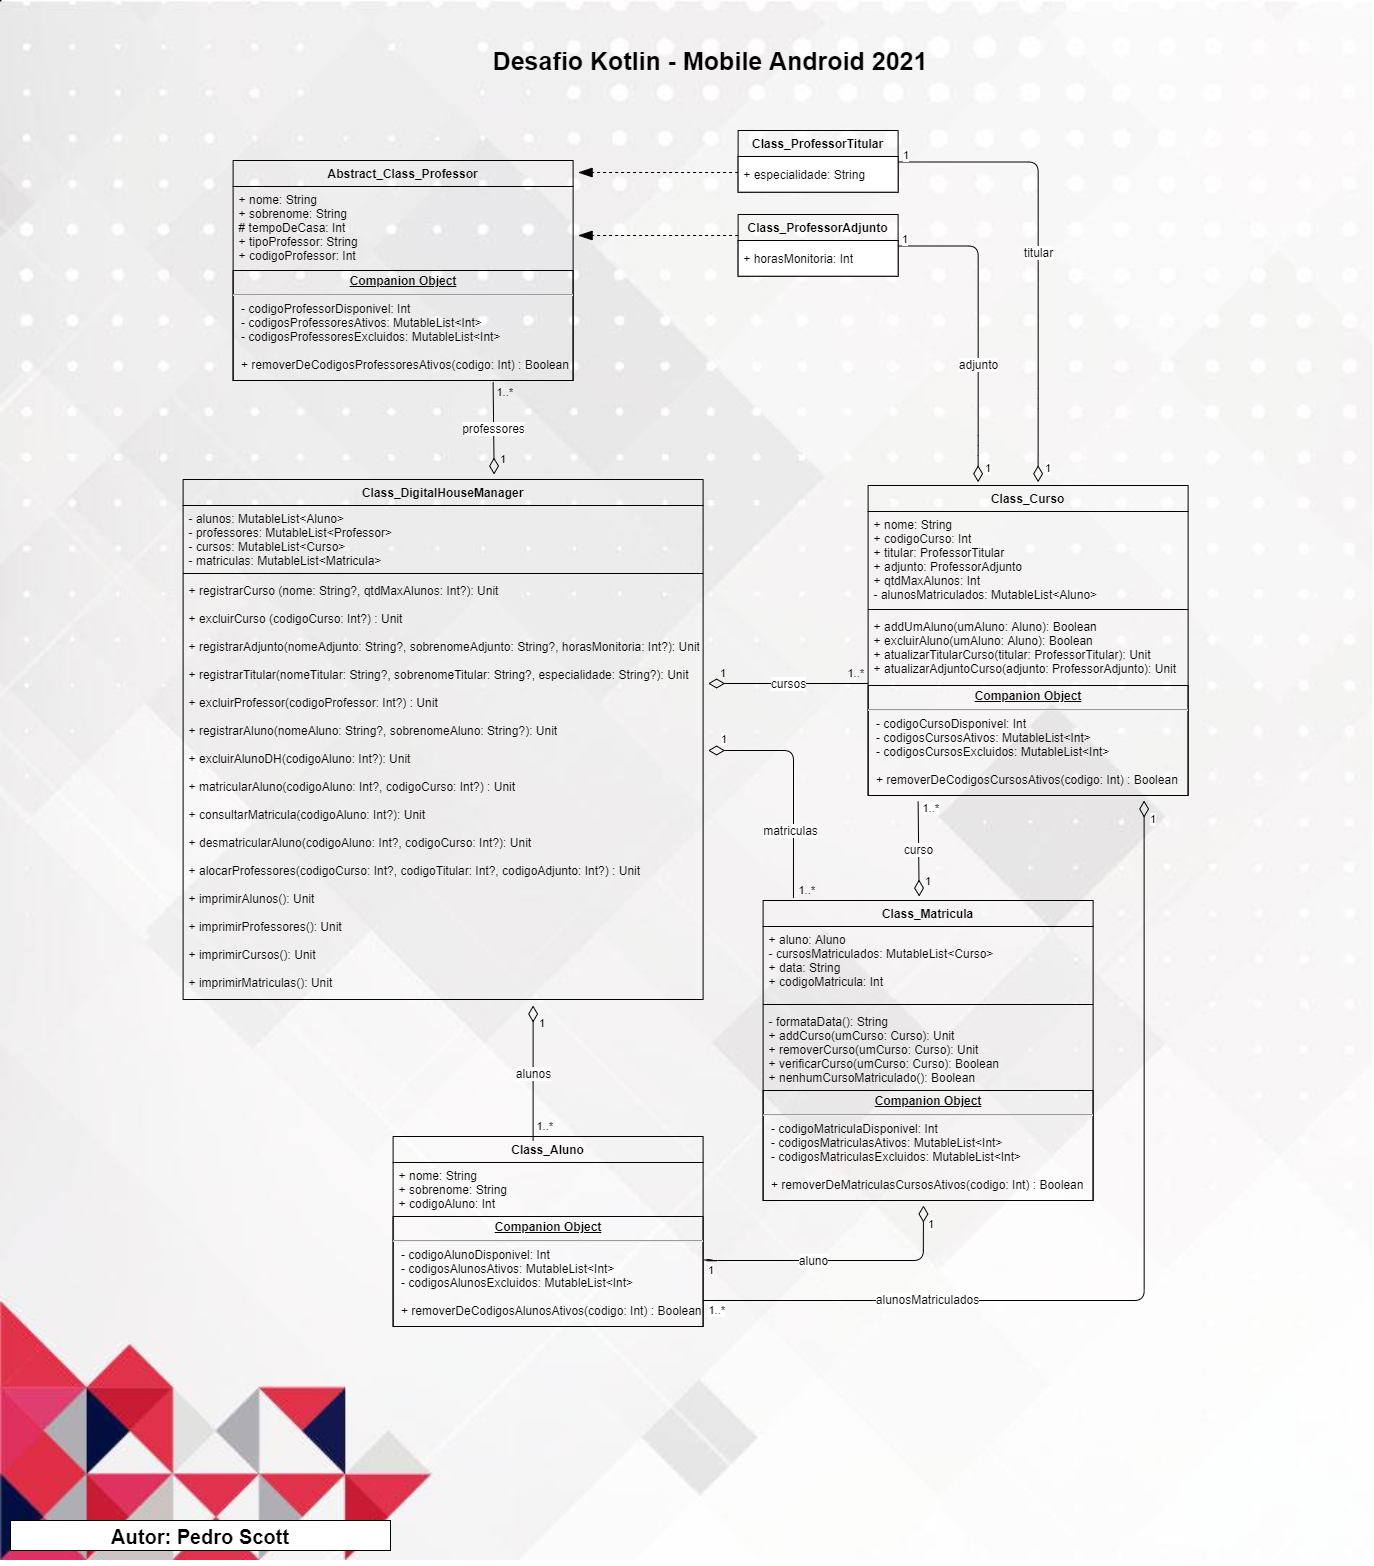
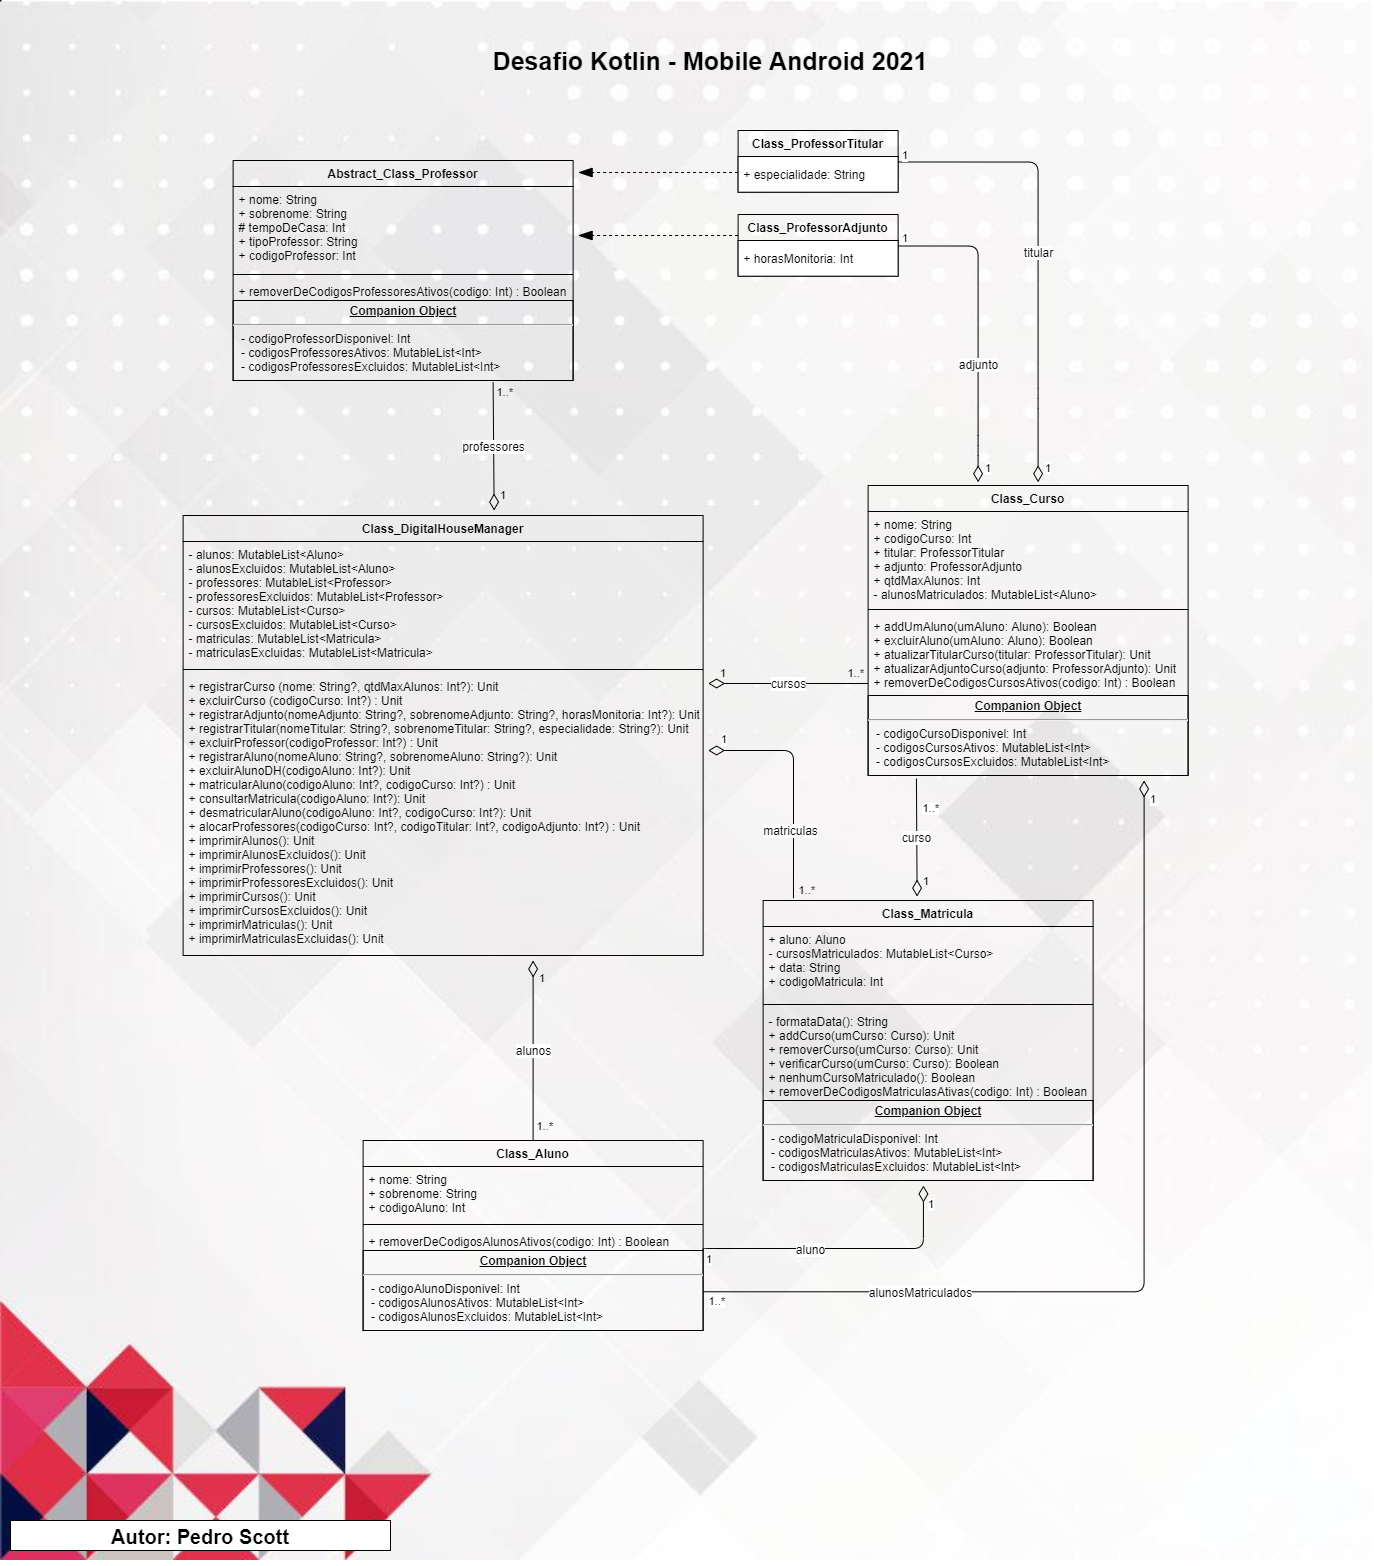
Adding a New Feature

diff --git a/Desafio-Kotlin-DH-2021/src/br/com/digitalhouse/desafioKotlin/modelo/DigitalHouseManager.kt b/Desafio-Kotlin-DH-2021/src/br/com/digitalhouse/desafioKotlin/modelo/DigitalHouseManager.kt
@@ -4,9 +4,13 @@ import br.com.digitalhouse.desafioKotlin.funcao.divisor
 
 class DigitalHouseManager {
     private val alunos = mutableListOf<Aluno>()
+    private val alunosExcluidos = mutableListOf<Aluno>()
     private val professores = mutableListOf<Professor>()
+    private val professoresExcluidos = mutableListOf<Professor>()
     private val cursos = mutableListOf<Curso>()
+    private val cursosExcluidos = mutableListOf<Curso>()
     private val matriculas = mutableListOf<Matricula>()
+    private val matriculasExcluidas = mutableListOf<Matricula>()
 
     //Registra um curso na lista cursos da classe atual com base nos dados informados
     fun registrarCurso(
@@ -48,8 +52,10 @@ class DigitalHouseManager {
             return
         }
 
-        Curso.removerDeCodigosCursosAtivos(codigo = codigoCurso)
+        curso.removerDeCodigosCursosAtivos(codigo = codigoCurso)
         cursos.remove(element = curso)
+        if (alunosExcluidos.size == 10) alunosExcluidos.removeAt(index = 0)
+        cursosExcluidos.add(element = curso)
         println(curso)
         println("Excluído com sucesso :)")
     }
@@ -132,8 +138,10 @@ class DigitalHouseManager {
             return
         }
 
-        Professor.removerDeCodigosProfessoresAtivos(codigo = codigoProfessor)
+        professor.removerDeCodigosProfessoresAtivos(codigo = codigoProfessor)
         professores.remove(element = professor)
+        if (professoresExcluidos.size == 10) professoresExcluidos.removeAt(index = 0)
+        professoresExcluidos.add(element = professor)
         when (professor) {
             is ProfessorTitular -> println(professor)
             is ProfessorAdjunto -> println(professor)
@@ -185,8 +193,10 @@ class DigitalHouseManager {
 
         //Verifica se o aluno está matriculado e caso não esteja exclui ele do sistema
         matriculas.find { it.aluno == aluno } ?: kotlin.run {
-            Aluno.removerDeCodigosAlunosAtivos(codigo = codigoAluno)
-            alunos.remove(aluno)
+            aluno.removerDeCodigosAlunosAtivos(codigo = codigoAluno)
+            alunos.remove(element = aluno)
+            if (alunosExcluidos.size == 10) alunosExcluidos.removeAt(index = 0)
+            alunosExcluidos.add(element = aluno)
             println("Excluído com sucesso :)")
             return
         }
@@ -324,8 +334,10 @@ class DigitalHouseManager {
 
         //Verifica se o aluno possui mais cursos e exclui ele da DHManager, caso não tenha.
         if (matricula.nenhumCursoMatriculado) {
-            Matricula.removerDeCodigosMatriculasAtivas(codigo = matricula.codigoMatricula)
+            matricula.removerDeCodigosMatriculasAtivas(codigo = matricula.codigoMatricula)
             matriculas.remove(matricula)
+            if (matriculasExcluidas.size == 10) matriculasExcluidas.removeAt(index = 0)
+            matriculas.add(element = matricula)
             println("Matrícula excluída com sucesso :)")
         }
     }
@@ -404,6 +416,20 @@ class DigitalHouseManager {
         }
     }
 
+    //Imprime a lista alunosExcluidos da classe atual, que contém as últimas 10 exclusões.
+    val imprimirAlunosExcluidos: Unit get() {
+        if (alunosExcluidos.isEmpty()) {
+            println("Nenhum aluno foi excluido!")
+            divisor
+            return
+        }
+
+        alunosExcluidos.forEach {
+            println("$it")
+            if (it != alunosExcluidos.last()) println()
+        }
+    }
+
     //Imprime a lista professores da classe atual.
     val imprimirProfessores: Unit get() {
         if (professores.isEmpty()) {
@@ -415,6 +441,20 @@ class DigitalHouseManager {
         professores.forEach {
             println("$it")
             if (it != professores.last()) println()
+        }
+    }
+
+    //Imprime a lista professoresExcluidos da classe atual, que contém as últimas 10 exclusões.
+    val imprimirProfessoresExcluidos: Unit get() {
+        if (professoresExcluidos.isEmpty()) {
+            println("Nenhum professor foi excluido!")
+            divisor
+            return
+        }
+
+        professoresExcluidos.forEach {
+            println("$it")
+            if (it != professoresExcluidos.last()) println()
         }
     }
 
@@ -432,6 +472,20 @@ class DigitalHouseManager {
         }
     }
 
+    //Imprime a lista cursosExcluidos da classe atual, que contém as últimas 10 exclusões.
+    val imprimirCursosExcluidos: Unit get() {
+        if (cursosExcluidos.isEmpty()) {
+            println("Nenhum curso foi excluido!")
+            divisor
+            return
+        }
+
+        cursosExcluidos.forEach {
+            println("$it")
+            if (it != cursosExcluidos.last()) println()
+        }
+    }
+
     //Imprime a lista matriculas da classe atual.
     val imprimirMatriculas: Unit get() {
         if (matriculas.isEmpty()) {
@@ -443,6 +497,20 @@ class DigitalHouseManager {
         matriculas.forEach {
             println("$it")
             if (it != matriculas.last()) println()
+        }
+    }
+
+    //Imprime a lista matriculasExcluidas da classe atual, que contém as últimas 10 exclusões.
+    val imprimirMatriculasExcluidas: Unit get() {
+        if (matriculasExcluidas.isEmpty()) {
+            println("Nenhuma matrícula foi excluida!")
+            divisor
+            return
+        }
+
+        matriculasExcluidas.forEach {
+            println("$it")
+            if (it != matriculasExcluidas.last()) println()
         }
     }
 }

diff --git a/Desafio-Kotlin-DH-2021/src/br/com/digitalhouse/desafioKotlin/main.kt b/Desafio-Kotlin-DH-2021/src/br/com/digitalhouse/desafioKotlin/main.kt
@@ -29,7 +29,7 @@ fun main() {
                     divisor
                     espacos
 
-                    if (opcao2 == null || opcao2 < 1 || opcao2 > 4) {
+                    if (opcao2 == null || opcao2 < 1 || opcao2 > 5) {
                         println("Opção Inválida :(")
                         divisor
                         espacos
@@ -70,9 +70,16 @@ fun main() {
                             dh.imprimirAlunos
                             espacos
                         }
+
+                        4 -> {
+                            println("*** Listar os últimos 10 Alunos excluidos do sistema ***\n")
+
+                            dh.imprimirAlunosExcluidos
+                            espacos
+                        }
                     }
 
-                } while (opcao2 != 4)
+                } while (opcao2 != 5)
             }
 
             2 -> {
@@ -81,7 +88,7 @@ fun main() {
                     opcao2 = readLine()?.toIntOrNull()
                     espacos
 
-                    if (opcao2 == null || opcao2 < 1 || opcao2 > 5) {
+                    if (opcao2 == null || opcao2 < 1 || opcao2 > 6) {
                         println("Opção Inválida :(")
                         divisor
                         espacos
@@ -147,9 +154,16 @@ fun main() {
                             dh.imprimirProfessores
                             espacos
                         }
+
+                        5 -> {
+                            println("*** Listar os últimos 10 Professores excluídos do sistema ***\n")
+
+                            dh.imprimirProfessoresExcluidos
+                            espacos
+                        }
                     }
 
-                } while (opcao2 != 5)
+                } while (opcao2 != 6)
             }
 
             3 -> {
@@ -158,7 +172,7 @@ fun main() {
                     opcao2 = readLine()?.toIntOrNull()
                     espacos
 
-                    if (opcao2 == null || opcao2 < 1 || opcao2 > 5) {
+                    if (opcao2 == null || opcao2 < 1 || opcao2 > 6) {
                         println("Opção Inválida :(")
                         divisor
                         espacos
@@ -220,9 +234,16 @@ fun main() {
                             dh.imprimirCursos
                             espacos
                         }
+
+                        5 -> {
+                            println("*** Listar os últimos 10 Cursos excluídos do sistema ***\n")
+
+                            dh.imprimirCursosExcluidos
+                            espacos
+                        }
                     }
 
-                } while (opcao2 != 5)
+                } while (opcao2 != 6)
             }
 
             4 -> {
@@ -231,7 +252,7 @@ fun main() {
                     opcao2 = readLine()?.toIntOrNull()
                     espacos
 
-                    if (opcao2 == null || opcao2 < 1 || opcao2 > 5) {
+                    if (opcao2 == null || opcao2 < 1 || opcao2 > 6) {
                         println("Opção Inválida :(")
                         divisor
                         espacos
@@ -289,9 +310,16 @@ fun main() {
                             dh.imprimirMatriculas
                             espacos
                         }
+
+                        5 -> {
+                            println("*** Listar as últimas 10 Matrículas excluídas do sistema ***\n")
+
+                            dh.imprimirMatriculasExcluidas
+                            espacos
+                        }
                     }
 
-                } while (opcao2 != 5)
+                } while (opcao2 != 6)
             }
 
             5 -> {

diff --git a/Desafio-Kotlin-DH-2021/src/br/com/digitalhouse/desafioKotlin/funcao/funcaoMenu.kt b/Desafio-Kotlin-DH-2021/src/br/com/digitalhouse/desafioKotlin/funcao/funcaoMenu.kt
@@ -25,7 +25,8 @@ val menu2: Unit get() =
             |1 - Registrar um Aluno no sistema
             |2 - Excluir um Aluno registrado no sistema
             |3 - Listar os Alunos registrados no sistema
-            |4 - Voltar ao menu anterior
+            |4 - Listar os últimos 10 Alunos excluidos do sistema
+            |5 - Voltar ao menu anterior
             |
             |Escolha uma opção: 
         """.trimMargin()
@@ -40,7 +41,8 @@ val menu3: Unit get() =
             |2 - Registrar um Professor Adjunto no sistema
             |3 - Excluir um Professor registrado no sistema
             |4 - Listar os Professores registrados no sistema
-            |5 - Voltar ao menu anterior
+            |5 - Listar os últimos 10 Professores excluídos do sistema
+            |6 - Voltar ao menu anterior
             |
             |Escolha uma opção: 
         """.trimMargin()
@@ -55,7 +57,8 @@ val menu4: Unit get() =
             |2 - Alocar Professores para um Curso registrado no sistema
             |3 - Excluir um Curso registrado no sistema
             |4 - Listar os Cursos registrados no sistema
-            |5 - Voltar ao menu anterior
+            |5 - Listar os últimos 10 Cursos excluídos do sistema
+            |6 - Voltar ao menu anterior
             |
             |Escolha uma opção: 
         """.trimMargin()
@@ -70,7 +73,8 @@ val menu5: Unit get() =
             |2 - Consultar a Matrícula de um Aluno registrado no sistema
             |3 - Desmatricular um Aluno registrado no sistema
             |4 - Listar as Matrículas registradas no sistema
-            |5 - Voltar ao menu anterior
+            |5 - Listar as últimas 10 Matrículas excluídas do sistema
+            |6 - Voltar ao menu anterior
             |
             |Escolha uma opção: 
         """.trimMargin()

diff --git a/Desafio-Kotlin-DH-2021/src/br/com/digitalhouse/desafioKotlin/modelo/Professor.kt b/Desafio-Kotlin-DH-2021/src/br/com/digitalhouse/desafioKotlin/modelo/Professor.kt
@@ -14,15 +14,15 @@ abstract class Professor(registrarCodigoProfessor: Boolean) {
 
 //        fun imprimirCodigosProfessoresAtivos() = codigosProfessoresAtivos.forEach { print("$it ") }
 //        fun imprimirCodigosProfessoresExcluidos() = codigosProfessoresExcluidos.forEach { print("$it ") }
-
-        // Remove o código informado da lista codigosProfessoresAtivos e add na lista codigosProfessoresExcluidos.
-        fun removerDeCodigosProfessoresAtivos(codigo: Int) : Boolean =
-            if (codigosProfessoresAtivos.contains(element = codigo)) {
-                codigosProfessoresAtivos.remove(element = codigo)
-                codigosProfessoresExcluidos.add(element = codigo)
-                true
-            } else false
     }
+
+    // Remove o código informado da lista codigosProfessoresAtivos e add na lista codigosProfessoresExcluidos.
+    fun removerDeCodigosProfessoresAtivos(codigo: Int) : Boolean =
+        if (codigosProfessoresAtivos.contains(element = codigo)) {
+            codigosProfessoresAtivos.remove(element = codigo)
+            codigosProfessoresExcluidos.add(element = codigo)
+            true
+        } else false
 
     var codigoProfessor = codigoProfessorDisponivel
         private set

diff --git a/Desafio-Kotlin-DH-2021/src/br/com/digitalhouse/desafioKotlin/modelo/Matricula.kt b/Desafio-Kotlin-DH-2021/src/br/com/digitalhouse/desafioKotlin/modelo/Matricula.kt
@@ -25,15 +25,15 @@ class Matricula(
 
 //        fun imprimirCodigosMatriculasAtivas() = codigosMatriculasAtivas.forEach { print("$it ") }
 //        fun imprimirCodigosMatriculasExcluidas() = codigosMatriculasExcluidas.forEach { print("$it ") }
-
-        // Remove o código informado da lista codigosMatriculasAtivas e add na lista codigosMatriculasExcluidas.
-        fun removerDeCodigosMatriculasAtivas(codigo: Int) : Boolean =
-            if (codigosMatriculasAtivas.contains(element = codigo)) {
-                codigosMatriculasAtivas.remove(element = codigo)
-                codigosMatriculasExcluidas.add(element = codigo)
-                true
-            } else false
     }
+
+    // Remove o código informado da lista codigosMatriculasAtivas e add na lista codigosMatriculasExcluidas.
+    fun removerDeCodigosMatriculasAtivas(codigo: Int) : Boolean =
+        if (codigosMatriculasAtivas.contains(element = codigo)) {
+            codigosMatriculasAtivas.remove(element = codigo)
+            codigosMatriculasExcluidas.add(element = codigo)
+            true
+        } else false
 
     var codigoMatricula = codigoMatriculaDisponivel
         private set

diff --git a/Desafio-Kotlin-DH-2021/src/br/com/digitalhouse/desafioKotlin/modelo/Curso.kt b/Desafio-Kotlin-DH-2021/src/br/com/digitalhouse/desafioKotlin/modelo/Curso.kt
@@ -19,15 +19,15 @@ class Curso(
 
 //        fun imprimirCodigosCursosAtivos() = codigosCursosAtivos.forEach { print("$it ") }
 //        fun imprimirCodigosCursosExcluidos() = codigosCursosExcluidos.forEach { print("$it ") }
-
-        // Remove o código informado da lista codigosCursosAtivos e add na lista codigosCursosExcluidos.
-        fun removerDeCodigosCursosAtivos(codigo: Int) : Boolean =
-            if (codigosCursosAtivos.contains(element = codigo)) {
-                codigosCursosAtivos.remove(element = codigo)
-                codigosCursosExcluidos.add(element = codigo)
-                true
-            } else false
     }
+
+    // Remove o código informado da lista codigosCursosAtivos e add na lista codigosCursosExcluidos.
+    fun removerDeCodigosCursosAtivos(codigo: Int) : Boolean =
+        if (codigosCursosAtivos.contains(element = codigo)) {
+            codigosCursosAtivos.remove(element = codigo)
+            codigosCursosExcluidos.add(element = codigo)
+            true
+        } else false
 
     var codigoCurso = codigoCursoDisponivel
         private set

diff --git a/Desafio-Kotlin-DH-2021/src/br/com/digitalhouse/desafioKotlin/modelo/Aluno.kt b/Desafio-Kotlin-DH-2021/src/br/com/digitalhouse/desafioKotlin/modelo/Aluno.kt
@@ -13,15 +13,15 @@ class Aluno(
 
 //        fun imprimirCodigosAlunosAtivos() = codigosAlunosAtivos.forEach { print("$it ") }
 //        fun imprimirCodigosAlunosExcluidos() = codigosAlunosExcluidos.forEach { print("$it ") }
-
-        // Remove o código informado da lista codigosAlunosAtivos.
-        fun removerDeCodigosAlunosAtivos(codigo: Int) : Boolean =
-            if (codigosAlunosAtivos.contains(element = codigo)) {
-                codigosAlunosAtivos.remove(element = codigo)
-                codigosAlunosExcluidos.add(element = codigo)
-                true
-            } else false
     }
+
+    // Remove o código informado da lista codigosAlunosAtivos.
+    fun removerDeCodigosAlunosAtivos(codigo: Int) : Boolean =
+        if (codigosAlunosAtivos.contains(element = codigo)) {
+            codigosAlunosAtivos.remove(element = codigo)
+            codigosAlunosExcluidos.add(element = codigo)
+            true
+        } else false
 
     var codigoAluno = codigoAlunoDisponivel
         private set
